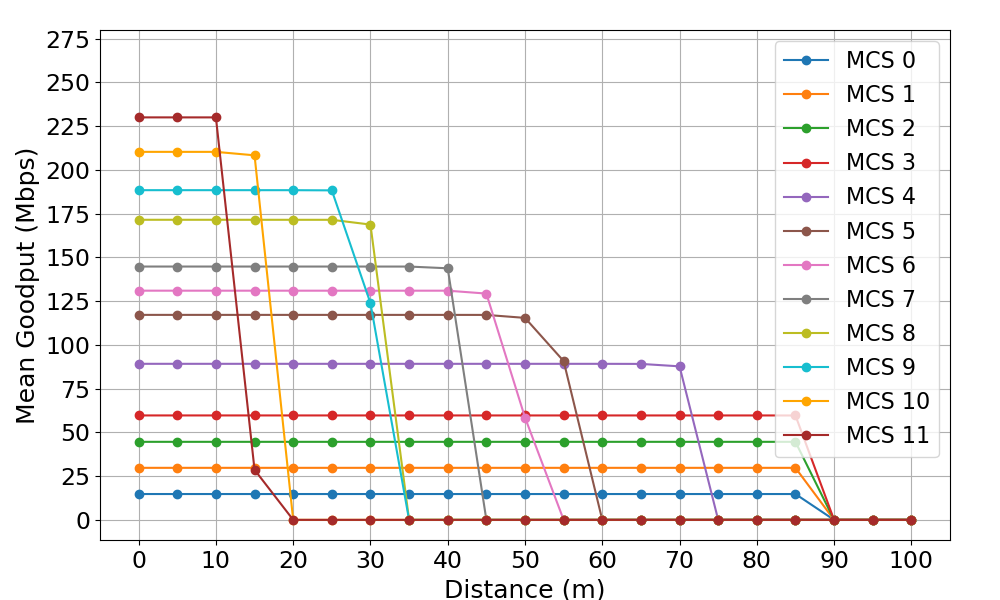
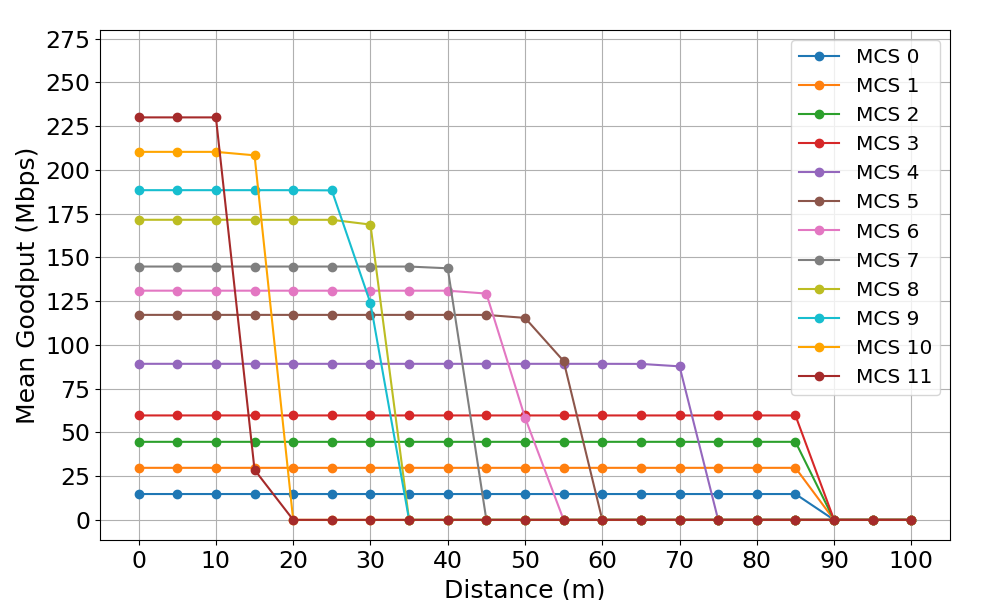
Añadida la segunda gráfica de Goodput vs STAs (Wi-Fi7) y pequeños retoques en otras

Changed region(s): [[0.775, 0.06, 0.93, 0.78]]

diff --git a/goodput_vs_distance/grafico2.py b/goodput_vs_distance/grafico2.py
@@ -25,7 +25,7 @@ plt.ylim(top=275+5)
 plt.xticks(np.arange(dataframe['Distance(m)'].min(), 101, 10), fontsize=17)
 plt.yticks(np.arange(dataframe['Mean_Throughput(Mbps)'].min(), 276, 25), fontsize=17)
 
-plt.legend(fontsize=16)
+plt.legend(fontsize=14.5)
 plt.grid(True)
 
 plt.subplots_adjust(left=0.1, right=0.95, top=0.95, bottom=0.1)
